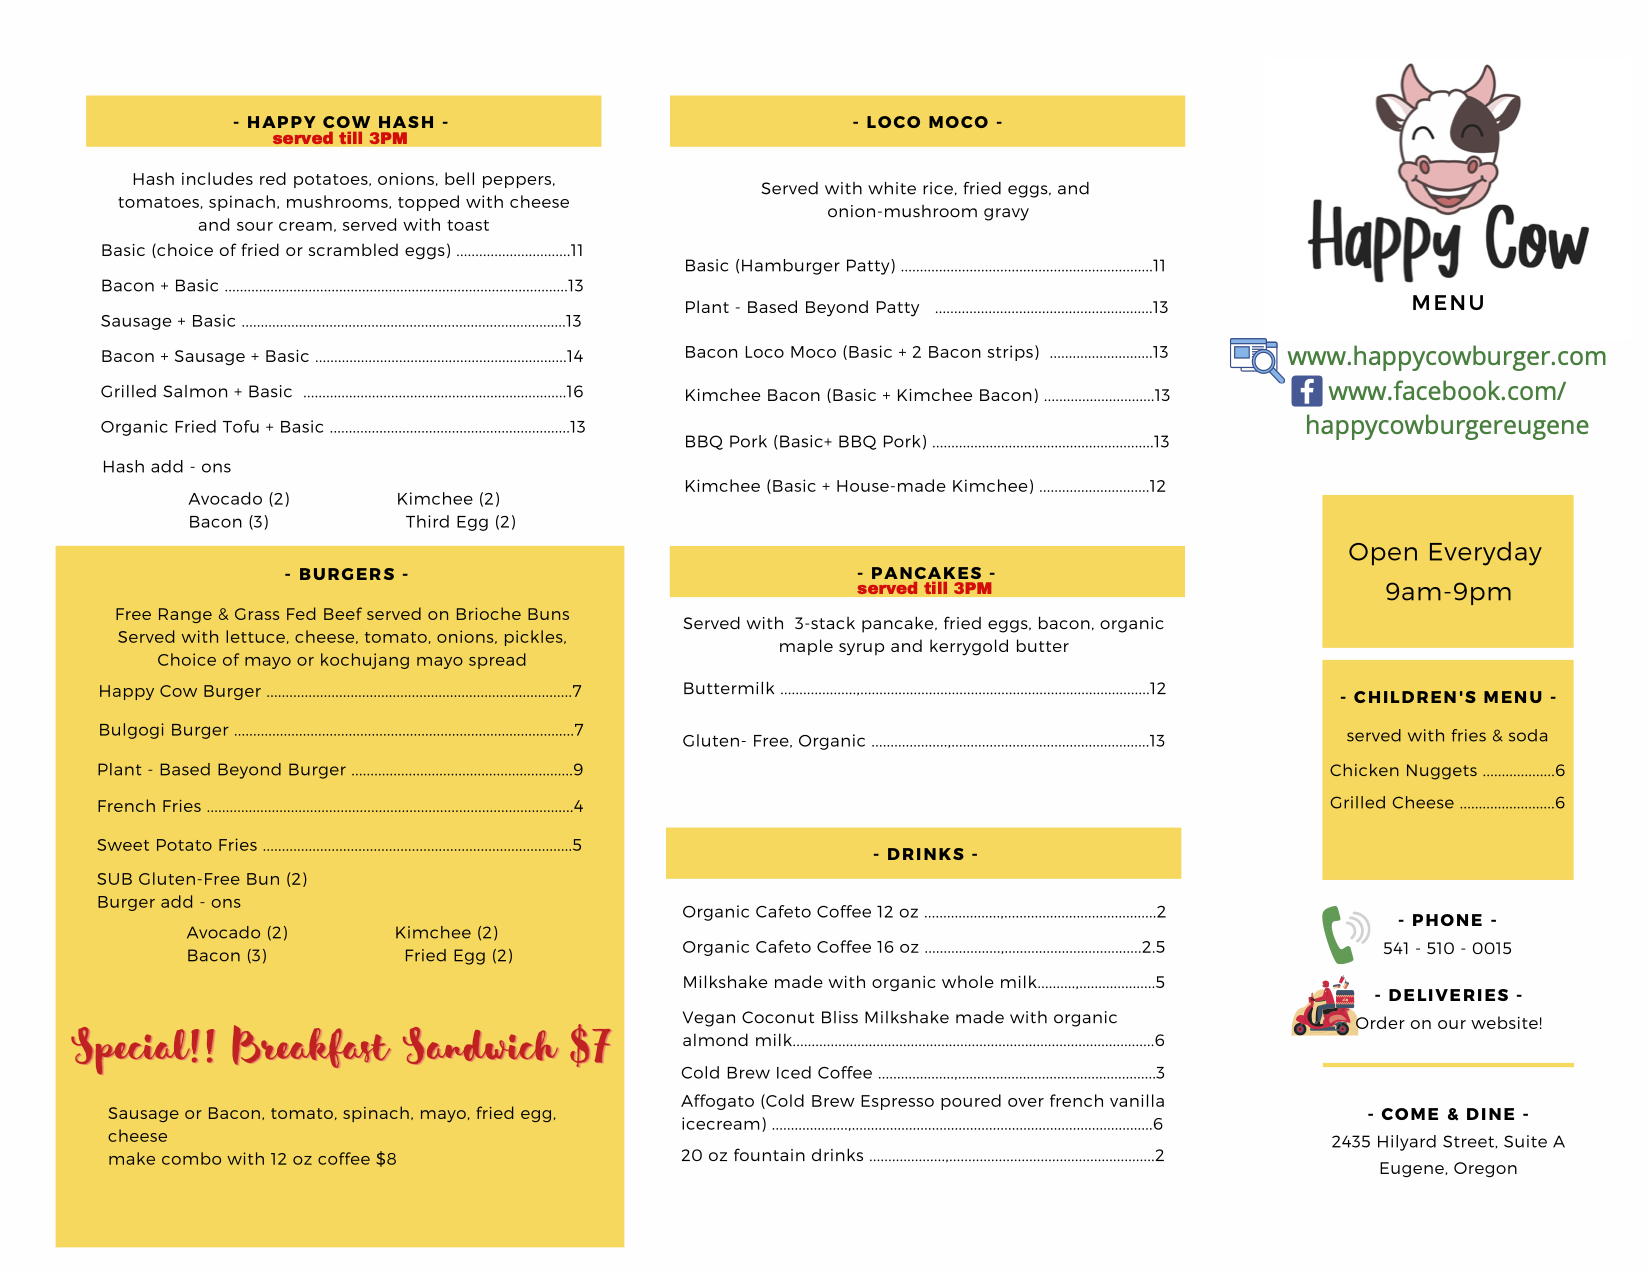
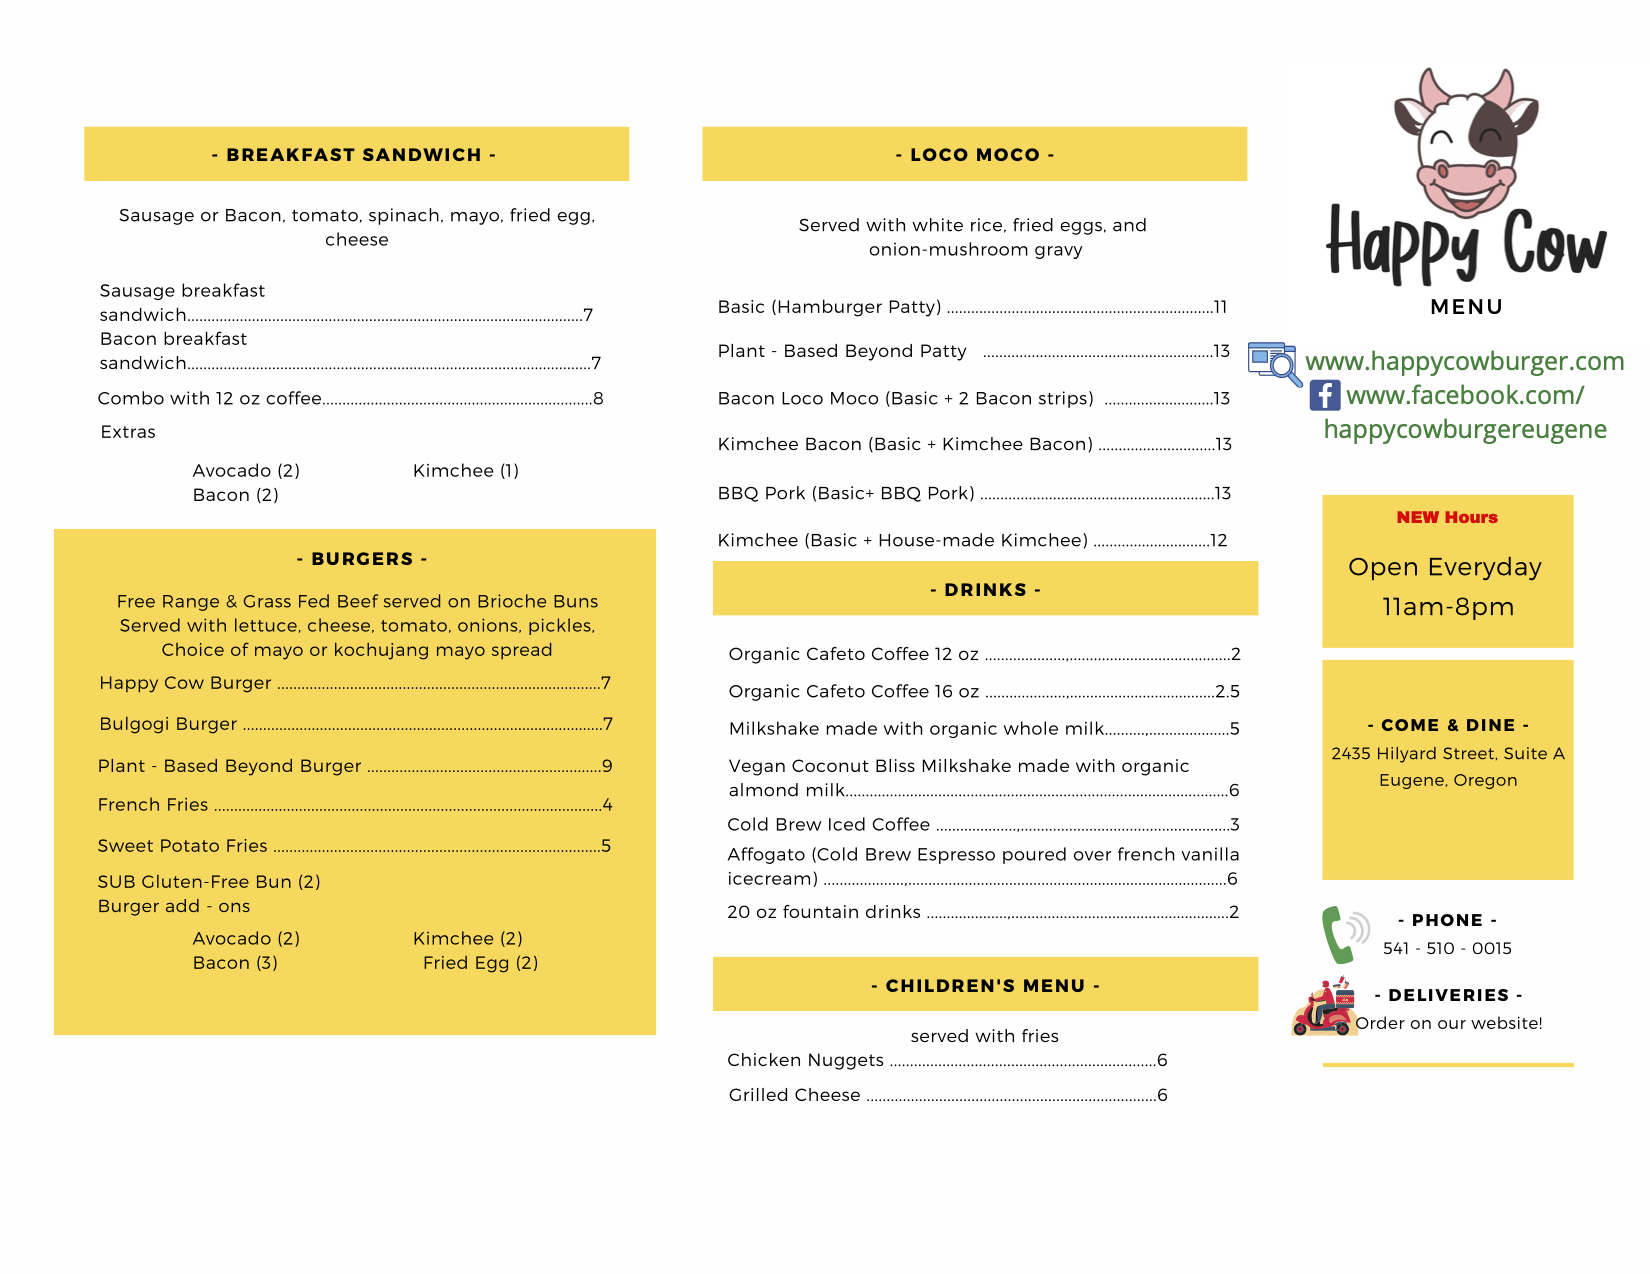
11to8

diff --git a/index.html b/index.html
@@ -27,6 +27,10 @@
     </nav>
   </header>
 
+  <section id="update">
+   <div>We changed hours and menu temporarily. Now we open 11am-8pm 7 days a week. Thanks for understanding!</div>  
+  </section>
+
   <section class="hero">
 
     <div class="background-image" id="slider" style="background-image: #000">
@@ -244,7 +248,7 @@
        <div>
         <ul>
          <li><strong>OPEN HOURS</strong></li>
-         <li>Monday - Sunday: 9am-9pm</li>
+         <li>Monday - Sunday: 11am-8pm </li>
          <li><strong>CONTACT</strong></li>
          <li>Phone: <a href="tel:+1-541-510-0015">541-510-0015</a></li>
          <li>Address: <a href="https://www.google.com/maps/place/Happy+Cow+Burger/@44.0329918,-123.0815478,15z/data=!4m5!3m4!1s0x0:0xdcf892970d741e4b!8m2!3d44.0329918!4d-123.0815478" target="_blank"> 2435 Hilyard St Suite A, Eugene, OR 97405</a></li>

diff --git a/styles.css b/styles.css
@@ -135,7 +135,7 @@ header img{
 	display:flex;
 	justify-content: center;
 	text-align: center;
-	min-height: 90vh;
+	min-height: 80vh;
 	color: #000;
 }
 
@@ -186,7 +186,7 @@ header img{
 
 @media (max-width: 800px) {
 	.hero {
-		min-height: 570px;
+		min-height: 490px;
 	}
 
 	.hero h1 {
@@ -638,5 +638,18 @@ img {
 	}
 }
 
+#update{
+	background:#000;
+	color:#FFD95E;
+	font-size: 18px;
+	font-weight: 800;
+	padding:20px 10px;
+	text-align:center;
+}
 
-
+@media (max-width: 800px) {
+	#update{
+		padding: 20px 5px;
+		font-size:16px;
+	}
+}
